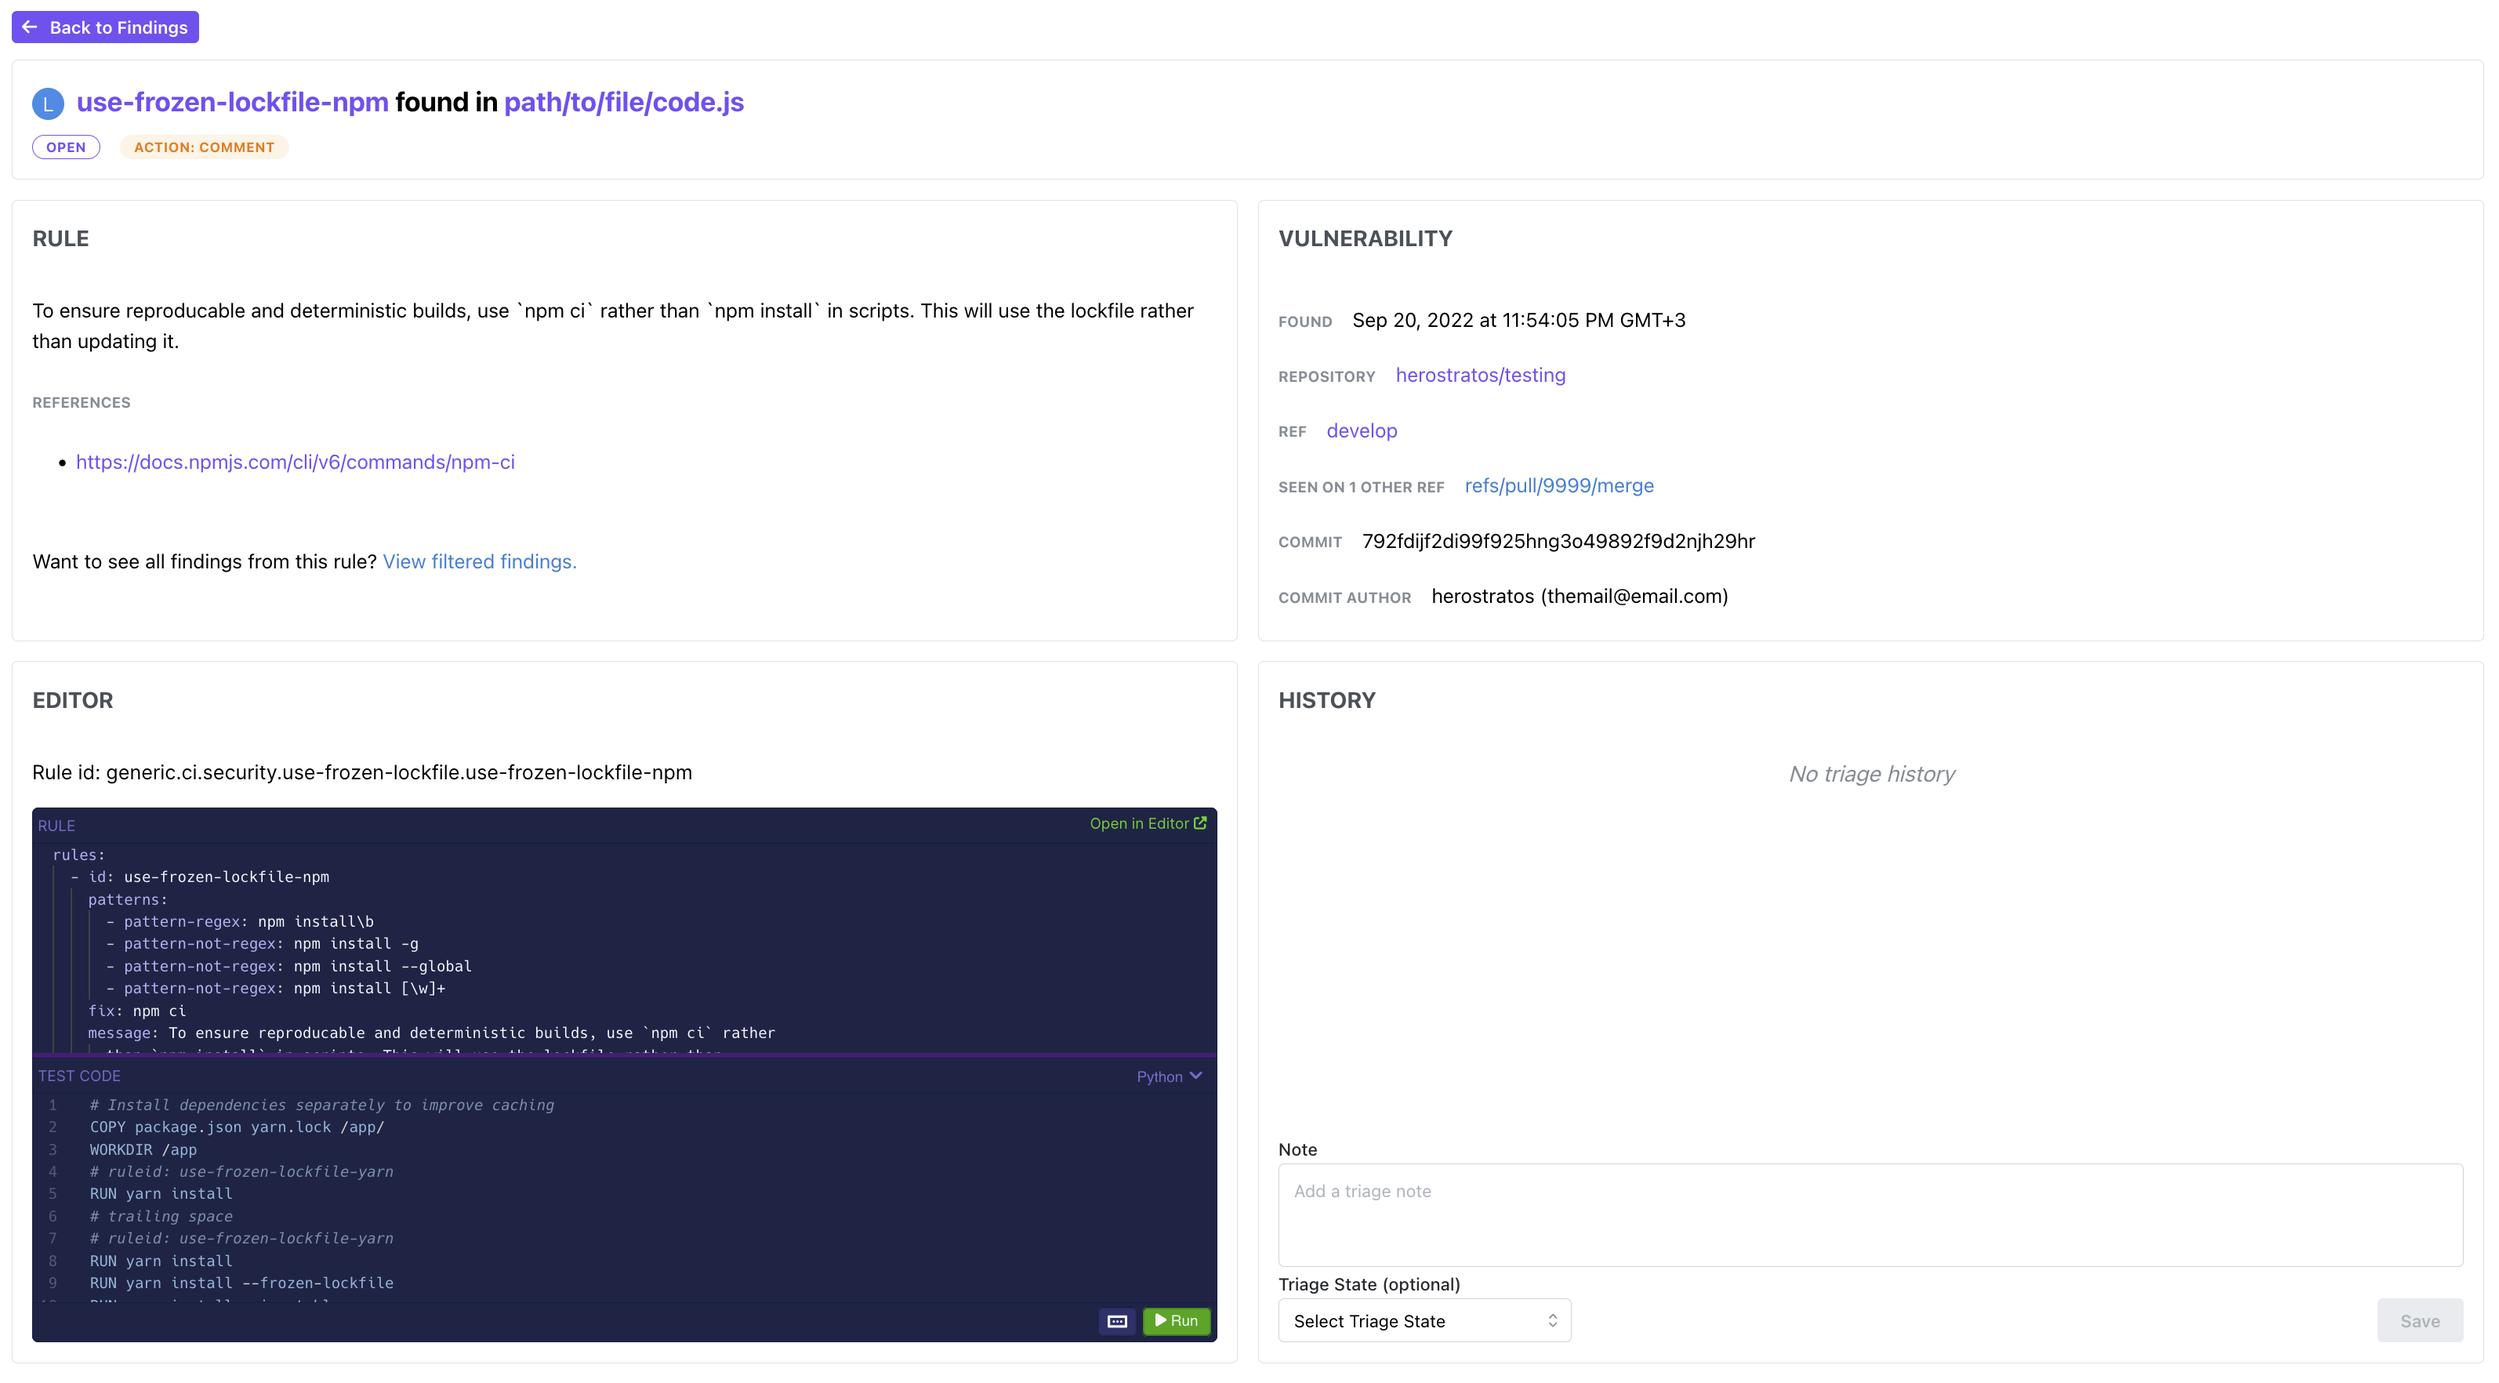
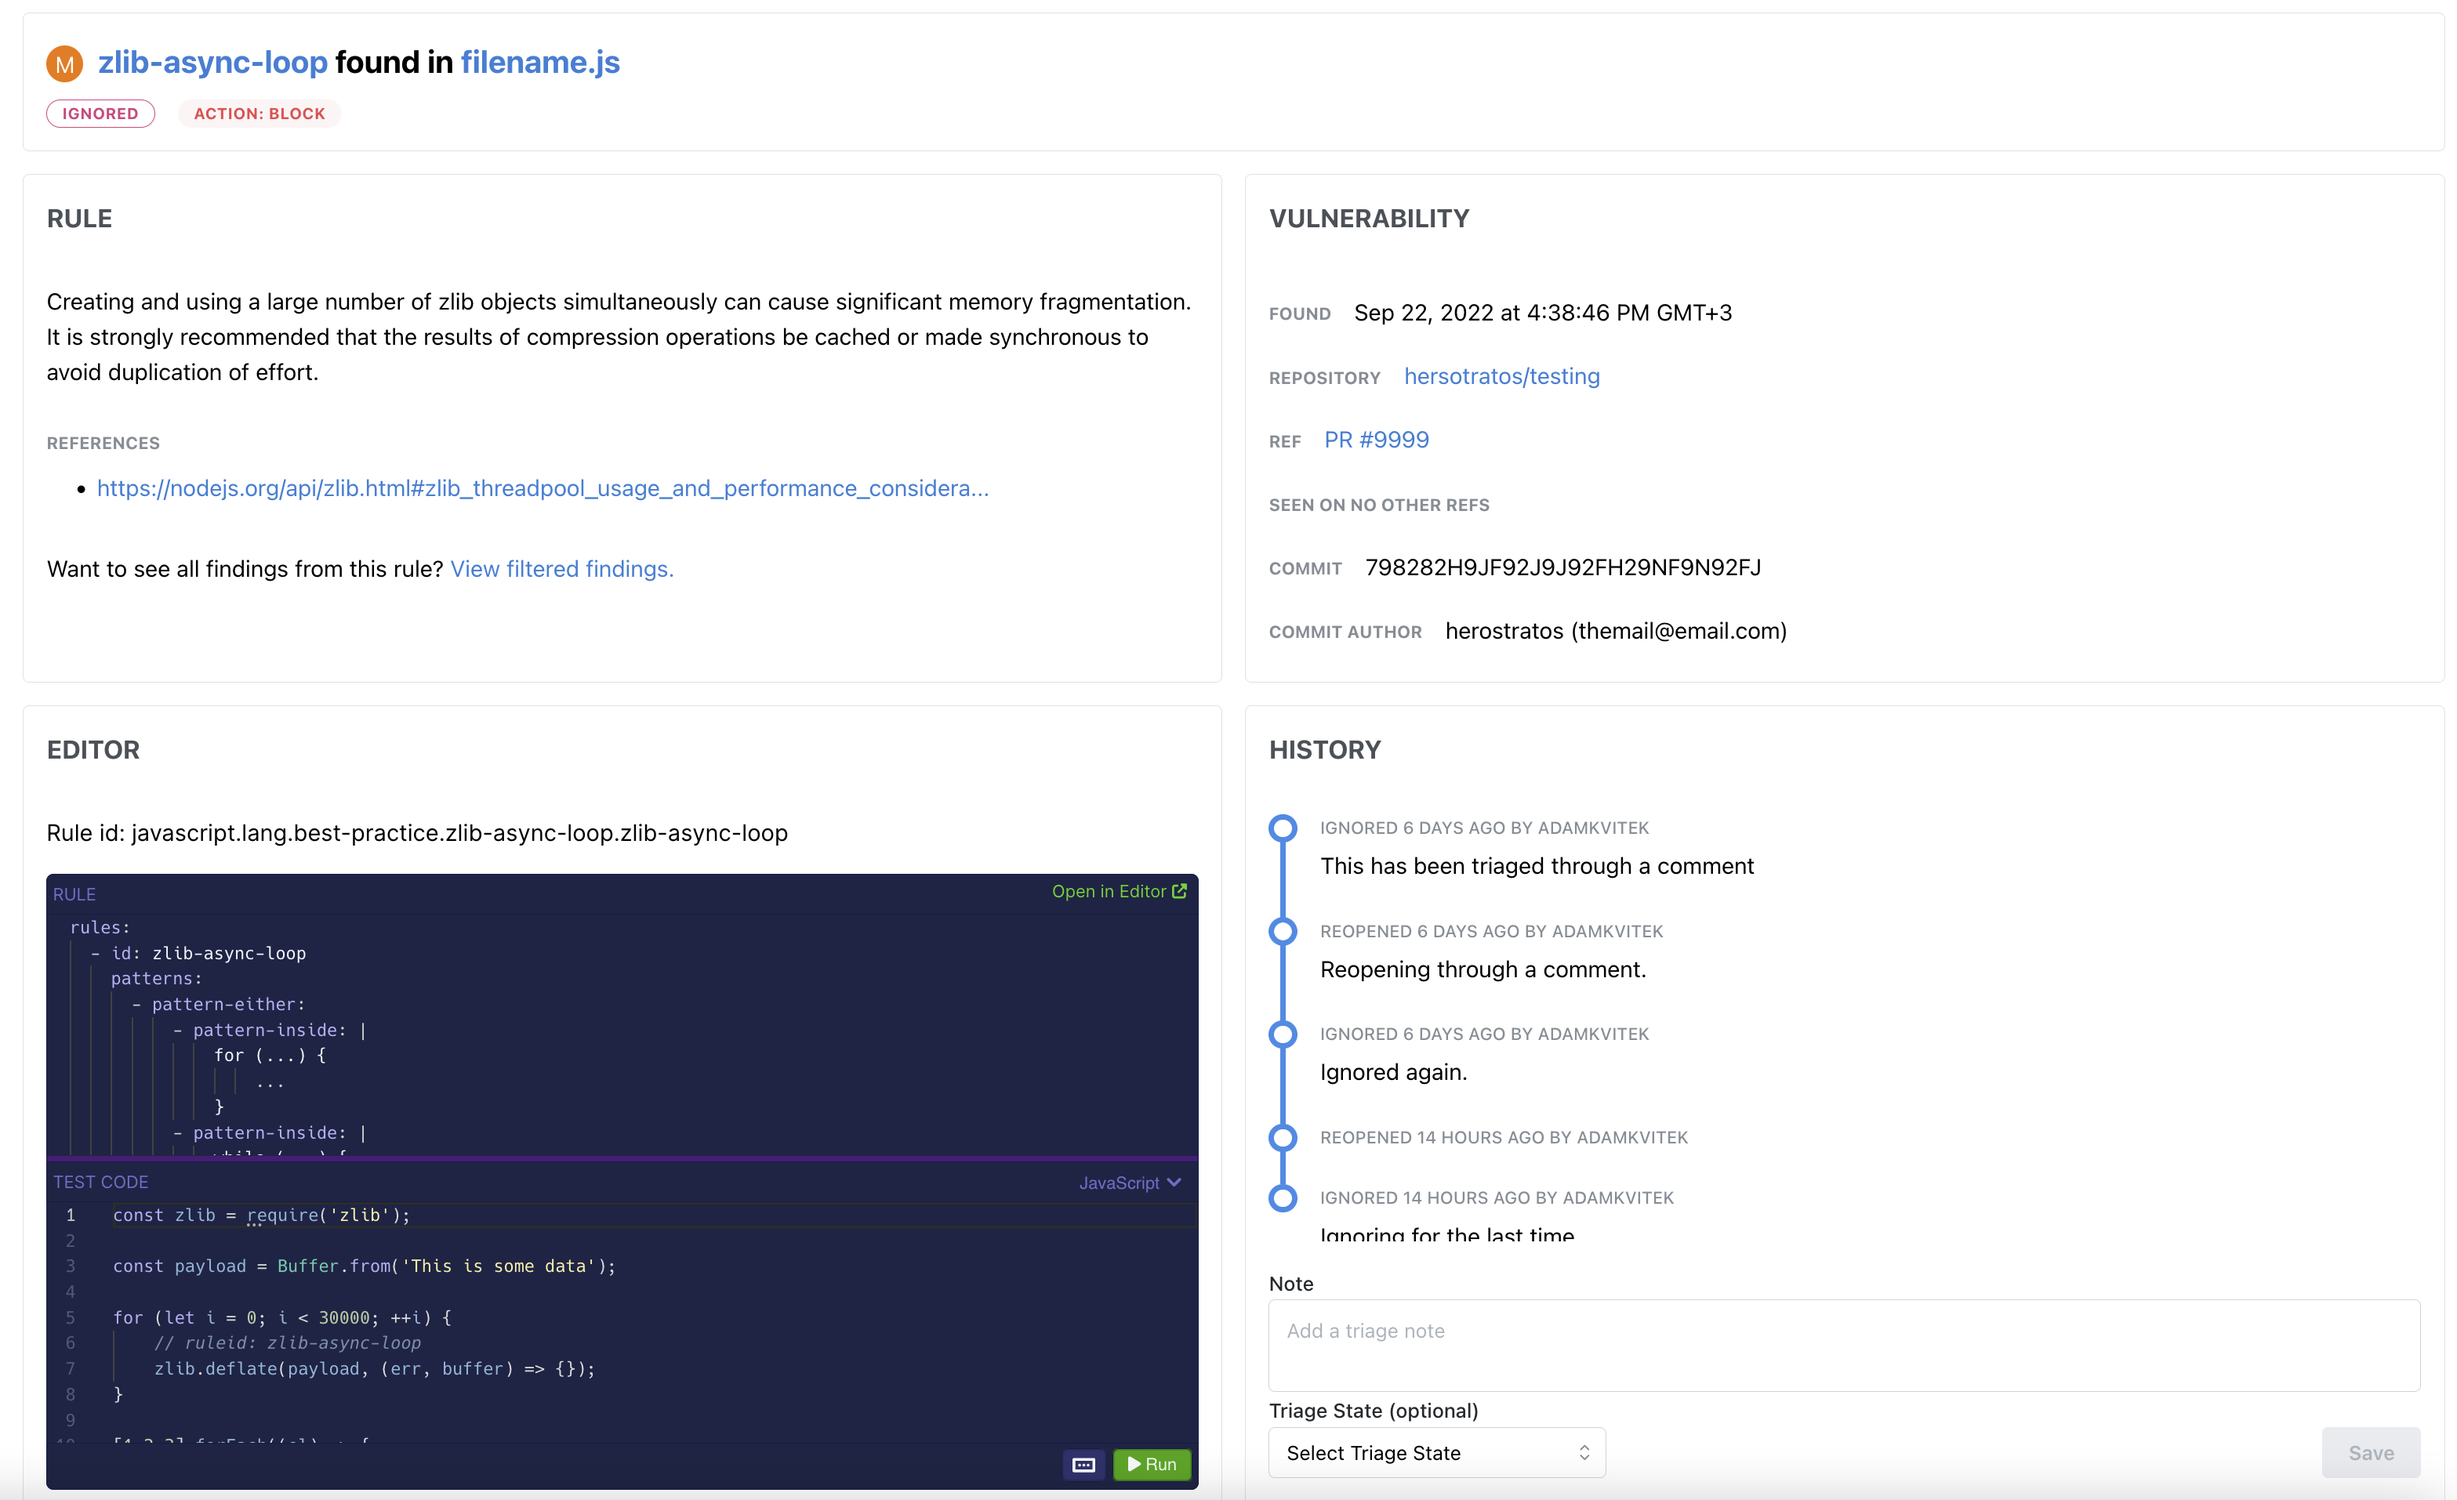
Simplify content, change image to display history of a finding

diff --git a/sidebars.js b/sidebars.js
@@ -124,7 +124,6 @@ module.exports = {
                     'semgrep-app/notifications',
                     'semgrep-app/sso',
                     'semgrep-app/user-management',
-                    'semgrep-app/triage-comment',
                     'troubleshooting/semgrep-app',
                     'semgrep-app/semgrep-api'
                 ],

diff --git a/docs/semgrep-app/findings.md b/docs/semgrep-app/findings.md
@@ -168,8 +168,35 @@ To **remove a rule** from the Rule Board:
 4. Click **Save**.
 5. Manually initiate a Semgrep scan from your CI job or SCM tool to immediately remove findings generated by the removed rule.
 
-<FindingsHistory />
-&emsp;&emsp;<i>Figure 4.</i> Findings details page.
+To **view and add comment** to history of a finding:
+
+1. Click the <i className="fa-regular fa-arrow-up-right-from-square inline_svg"></i> **Finding details** icon next to the finding’s status.
+2. Find the comments in the **History** section.
+    ![Semgrep App finding details page](/img/app-finding-details.png)<br />
+    *Figure 4.* Findings details page.
+
+### Ignoring findings through comments
+
+Triage your Semgrep App findings that are displayed as comments in GitHub PRs by replying with another comment.
+
+To triage a finding in GitHub, follow these steps:
+
+1. Find an open comment created by Semgrep App in GitHub PR:
+    ![Screenshot of Semgrep App comment in GitHub](/img/semgrep-app-comment-github.png)<br />
+    *Figure 1.* Screenshot of Semgrep App comment in GitHub.
+2. In the comment, reply with:
+    <pre><code>
+    /semgrep ignore <span className="placeholder">&lt;reason&gt;</span>
+    </code></pre>
+3. Substitute the colored placeholder <code><span className="placeholder">&lt;reason&gt;</span></code> with any text that can help to understand why the status of a comment is ignored.
+
+:::info
+Ignoring a finding through a comment in GitHub changes the status of the finding to **ignored** in the Semgrep App. See [Findings](/semgrep-app/findings.md) page documentation for more details. The GitHub conversation itself is not automatically resolved by this process.
+:::
+
+:::tip
+You can also reopen a finding that was previously ignored. To do so, in step 2. of the procedure above, use `/semgrep open`. For `/semgrep open` the reason field is optional.
+:::
 
 ## Creating Jira tickets from findings
 
